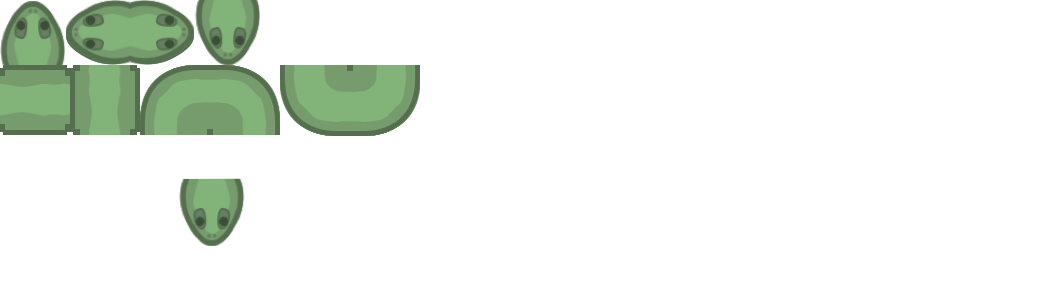
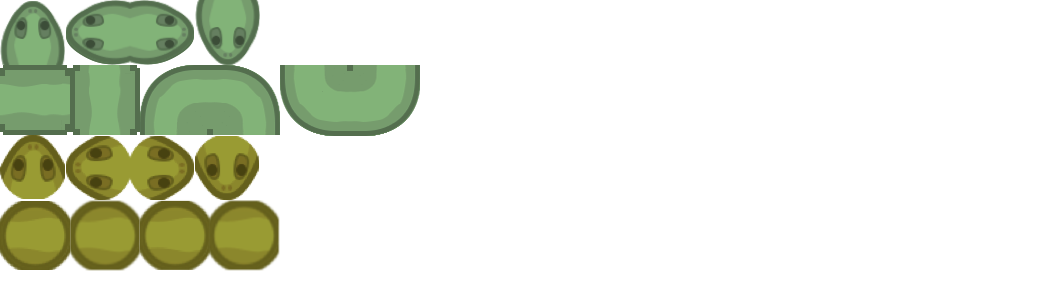
#40 add snake image for enemy (temporary)

Changed region(s): [[0.0, 0.4823, 0.2756, 0.9645]]

diff --git a/src/game.js b/src/game.js
@@ -48,13 +48,13 @@ class Game {
   addNewPlayer(socket) {
     var data = {
       "player"  : this.world.spawnSnake(),
-      "enemies" : this.getEnemies(socket, true),
+      "enemies" : this.getEnemies(socket),
       "items"   : this.items
     };
     socket.emit("generate-game", data)
-    this.players.set(socket.id, new Player(data["player"].x, data["player"].y,
-                                           data["player"].dir, socket)); 
-    // Add for the color: Util.getRandomColor()
+    this.players.set(socket.id, new Player(data["player"].body.x, data["player"].body.y,
+                                           data["player"].dir, 
+                                           socket));
   }
 
 
@@ -78,9 +78,8 @@ class Game {
       player.collision(this.world);
       this.world.insertSnakeHead(player);
       // this.world.enlargeWorld(player); 
-      if(!player.alive) {
+      if(!player.alive)
         this.removePlayer(player.socket);
-      }
     }
   }
 
@@ -118,9 +117,10 @@ class Game {
    * @param {Object} socket: socket of the player
    */
   removePlayer(socket) {
-    if(this.players.has(socket.id))
+    if(this.players.has(socket.id)) {
       this.world.clearSnake(this.players.get(socket.id));
       this.players.delete(socket.id);
+    }
   }
 
   /**
@@ -136,17 +136,14 @@ class Game {
    * 
    * @param {Object} playerSocket: the socket of the selected player
    */
-  getEnemies(playerSocket, isInit) {
+  getEnemies(playerSocket) {
     var enemies = new Array();
-    for(let enemy of this.players.values()) {
+    for(let enemy of this.players.values())
       if(enemy.socket.id != playerSocket.id)
-        if(isInit)
-          enemies.push({ "body" : enemy.body, "score" : enemy.score, 
-                         "dir"  : enemy.getDir(), "size": enemy.size });
-        else
-          enemies.push({ "body" : enemy.body[0], "score" : enemy.score, 
-                         "dir"  : enemy.getDir(), "size": enemy.size });
-    }
+        enemies.push({ "body"  : enemy.body, 
+                       "score" : enemy.score, 
+                       "dir"   : enemy.getDir(), 
+                       "size"  : enemy.size });
     return enemies;
   }
 
@@ -158,8 +155,10 @@ class Game {
     var data;
     for(let player of this.players.values()) {
       data = {
-        "player"  : { "body" : player.body[0], "score" : player.score, 
-                      "dir"  : player.getDir(), "size" : player.size },
+        "player"  : { "body"  : player.body[0], 
+                      "score" : player.score, 
+                      "dir"   : player.getDir(), 
+                      "size"  : player.size },
         "enemies" : this.getEnemies(player.socket),
         "items"   : this.items
       };

diff --git a/public/js/game/game.js b/public/js/game/game.js
@@ -36,15 +36,15 @@ class Game {
    * @param {Object} data: data given by the server
    */
   initGameValues(data) {
+    console.log(data["player"].body);
     if(this.player == null)
-      this.player = new Player({"x" : data["player"].x, "y" : data["player"].y},
-                               data["player"].dir, 0, data["player"].size,
+      this.player = new Player(data["player"].body,
+                               data["player"].dir, 
+                               data["player"].score, 
+                               data["player"].size,
                                Util.getRandomColorRGB());
 
-    for(var i = 0; i < data["enemies"].length; i++)
-      this.enemies.push(new Player(data["enemies"][i].body,
-                                   data["enemies"][i].dir, 0, data["enemies"][i].size,
-                                   Util.getRandomColorRGB()));
+    this.enemies = data["enemies"];
     this.items = data["items"];
   }
 
@@ -54,26 +54,19 @@ class Game {
    * @param {Object} data: data given by the server
    */
   setGameValues(data) {
-    if(this.player.body[0].x != data["player"].body.x ||
-       this.player.body[0].y != data["player"].body.y) {
-      this.player.update(data["player"].body,
-                         data["player"].dir, data["player"].score, 
-                         data["player"].size);
-    }
-    
+    this.player.update(data["player"].body,
+                       data["player"].dir, 
+                       data["player"].score, 
+                       data["player"].size);
+
     // this.enemies = data["enemies"];
     // TODO: When a player is removed from the game
-    for(var i = 0; i < data["enemies"].length; i++)
-      if(this.enemies[i].body[0].x != data["enemies"][i].body.x ||
-         this.enemies[i].body[0].y != data["enemies"][i].body.y)
-        this.enemies[i].update(data["enemies"][i].body,
-                               data["enemies"][i].dir, 0, data["enemies"][i].score,
-                               data["enemies"][i].size);
+    this.enemies = data["enemies"];
     this.items = data["items"];
   }
 
   /**
-   * @method Start the game loop (TO ADD).
+   * @method Start the game loop.
    */
   start() {
     this.run(Date.now());
@@ -92,7 +85,7 @@ class Game {
   }
 
   /**
-   * @method End the game loop.
+   * @method End the game loop (TO ADD).
    */
   end() {
     window.cancelAnimationFrame(this.frameId);

diff --git a/public/js/game/display.js b/public/js/game/display.js
@@ -267,16 +267,18 @@ class Display {
       if(cell == 0) {
         sw = SNAKES_IMG_SRC["headw"];
         sh = SNAKES_IMG_SRC["headh"];
-        sx = SNAKES_IMG_SRC[player.dir[cell]] * sw;
-        sy = 0;
+        sx = SNAKES_IMG_SRC[imageName] == SNAKES_IMG_SRC["player"] ? SNAKES_IMG_SRC[player.dir[cell]] * sw :
+                                                                     SNAKES_IMG_SRC[player.dir] * sw;
+        sy = SNAKES_IMG_SRC[imageName] * (SNAKES_IMG_SRC["headh"] + SNAKES_IMG_SRC["bodyh"]);
       }
       
       // Draw the tail/body
       else {
         sw = SNAKES_IMG_SRC["bodyw"];
         sh = SNAKES_IMG_SRC["bodyh"];
-        sx = player.dir[cell] * sw;
-        sy = SNAKES_IMG_SRC["headh"];
+        sx = SNAKES_IMG_SRC[imageName] == SNAKES_IMG_SRC["player"] ? player.dir[cell] * sw :
+                                                                     0;
+        sy = SNAKES_IMG_SRC[imageName] * (SNAKES_IMG_SRC["headh"] + SNAKES_IMG_SRC["bodyh"]) + SNAKES_IMG_SRC["headh"];
       }
 
       this.context.drawImage(image, 

diff --git a/src/world.js b/src/world.js
@@ -178,8 +178,7 @@ class World {
    */
   spawnSnake() {
     var tile = this.getRandomTile();
-    return { "x"     : Math.floor(tile%this.w),
-             "y"     : Math.floor(tile/this.w),
+    return { "body"  : {"x" : Math.floor(tile%this.w), "y" : Math.floor(tile/this.w) },
              "score" : 0,
              "dir"   : Snake.getRandomDirection(),
              "size"  : Snake.SNAKE_SIZE };
@@ -212,7 +211,7 @@ World.TILES_ID = {
  * The width of the world
  * @const {number}
  */
-World.WORLD_WIDTH = 40;
+World.WORLD_WIDTH = 20;
 
 /**
  * The height of the world

diff --git a/public/js/game/player.js b/public/js/game/player.js
@@ -32,6 +32,10 @@ class Player {
    * @param {number} size: the size of the snake
    */
   update(body, dir, score, size) {
+    if(this.body[0].x == body.x &&
+       this.body[0].y == body.y)
+      return;
+
     this.size = size || this.size;
     if(this.body.length == this.size)
       this.body.pop();

diff --git a/public/js/game/events.js b/public/js/game/events.js
@@ -1,4 +1,4 @@
-/*
+/**
  * KEYBOARD_STATE defines all keyboard inputs. The value of an input is 
  * false when a key is released and true when a key is pressed. 
  */
